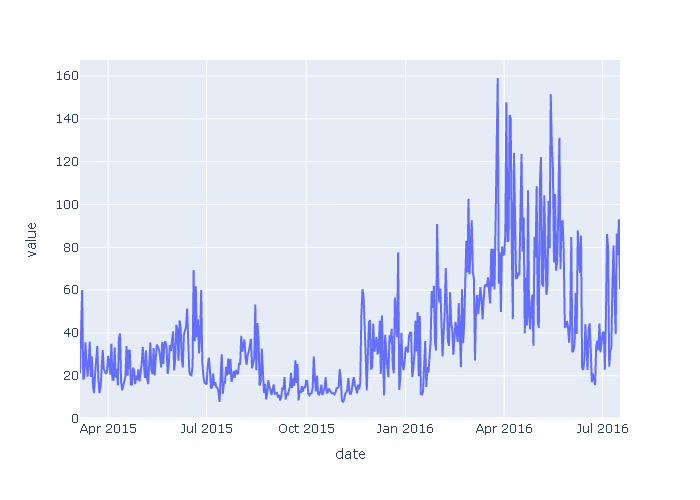
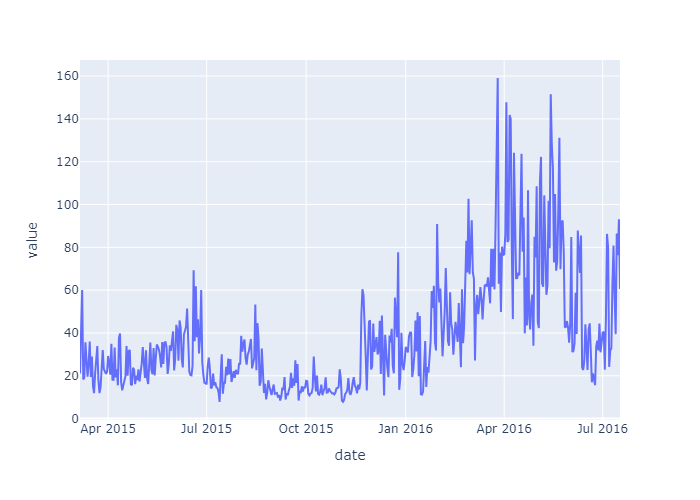
Added requirements.txt

diff --git a/templates/index.html b/templates/index.html
@@ -16,55 +16,57 @@
     <body>             <!--This is for the effect-->
         <!--Had to use z-index: -1 because it interfere with the website-->
        <div id="ambient" style="overflow:hidden; position:absolute; width:100%; height:100vh; z-index: -1;"></div>
-        <div class="container m-lg-5">
-            <h2 class = "text-center">Bitcoin Dashboards 2016</h2>
-            <form method="POST" class = "text-center">
-                <label for="user_input">
-                    Enter number of data you want to see (Max 999):
-                </label>
-                <input type="number" id = "user_input" name = "user_input">
-                <button type="submit">Submit</button>
-            </form>
-            <div class = "d-flex flex-row align-items-center justify-content-center">
-                <div class = "container text-left mg-lg-5">
-                    <h4 class = "text-justify my-lg-5">Explaination of terms</h4>
-                    <ul>
-                        <li><p class = "text-justify">
-                            <strong>Bitcoin Trade Volume: </strong> this is indicate how many Bitcoin are being bought and sold
-                            on specific exchange. For instance, when people deposit and withdraw funds. It's also a good indicator
-                            of the general interest in the crypto market
-                        </p></li>
-                        <li><p class = "text-justify">
-                            <strong>Bitcoin Transaction Volume Ratio: </strong> is a value metric that helps investor understand if the 
-                            Bitcoin's market value is high or low, which help them to buy low and sell high.
-                        </p></li>
-                        <li><p class = "text-justify">
-                            <strong>Bitcoin Miner Revenue: </strong>this is the value that indicate how much does a Bitcoin miner make 
-                            within a day of mining Bitcoin.
-                        </p></li>
-                    </ul>
-                </div>
-                <div class = "container text-center mg-lg-5">
-                    <h4 class = "text-justify my-lg-5">Graph information</h4>
-                    <div class="d-flex flex-column align-items-center justify-content-center">
-                        <img class = "img-fluid" src="/static/images/plot_1.png" alt="">
-                        <figcaption>Fig.1 - Bitcoin Trade Volume vs Transaction Volume Ratio</figcaption>
-                        <img class = "img-fluid" src="/static/images/plot_2.png" alt="">
-                        <figcaption>Fig.2 - Bitcoin Miner Revenue</figcaption>
+        <div class = "container d-flex flex-column justify-content-center align-items-center">
+            <div class="container d-flex flex-column justify-content-center align-items-center vh-100 m-lg-5 ">
+                <h2 class = "text-center">Bitcoin Dashboards 2016</h2>
+                <form method="POST" class = "text-center">
+                    <label for="user_input">
+                        Enter number of data you want to see (Max 999):
+                    </label>
+                    <input type="number" id = "user_input" name = "user_input">
+                    <button type="submit">Submit</button>
+                </form>
+                <div class = "d-flex flex-row align-items-center justify-content-center">
+                    <div class = "container text-left mg-lg-5">
+                        <h4 class = "text-justify my-lg-5">Explaination of terms</h4>
+                        <ul>
+                            <li><p class = "text-justify">
+                                <strong>Bitcoin Trade Volume: </strong> this is indicate how many Bitcoin are being bought and sold
+                                on specific exchange. For instance, when people deposit and withdraw funds. It's also a good indicator
+                                of the general interest in the crypto market
+                            </p></li>
+                            <li><p class = "text-justify">
+                                <strong>Bitcoin Transaction Volume Ratio: </strong> is a value metric that helps investor understand if the 
+                                Bitcoin's market value is high or low, which help them to buy low and sell high.
+                            </p></li>
+                            <li><p class = "text-justify">
+                                <strong>Bitcoin Miner Revenue: </strong>this is the value that indicate how much does a Bitcoin miner make 
+                                within a day of mining Bitcoin.
+                            </p></li>
+                        </ul>
                     </div>
-                </div>
-                <div class = "container text-right mg-lg-5">
-                    <h4 class = "text-justify my-lg-5">Below are the exchange rate of USD and CAD from Bitcoin (from July 02 to July 08 of 2024)</h4>
-                    <h5>USD Currency</h5>
-                    <ul>
-                        {% for item in usd_data %}
-                            <li>{{ item }}</li>
-                        {% endfor %}
-                    </ul><br>
-                    <h5>CAD Currency</h5>
-                        {% for item in cad_data %}
-                            <li>{{ item }}</li>
-                        {% endfor %}
+                    <div class = "container text-center mg-lg-5">
+                        <h4 class = "text-justify my-lg-5">Graph information</h4>
+                        <div class="d-flex flex-column align-items-center justify-content-center">
+                            <img class = "img-fluid" src="/static/images/plot_1.png" alt="">
+                            <figcaption>Fig.1 - Bitcoin Trade Volume vs Transaction Volume Ratio</figcaption>
+                            <img class = "img-fluid" src="/static/images/plot_2.png" alt="">
+                            <figcaption>Fig.2 - Bitcoin Miner Revenue</figcaption>
+                        </div>
+                    </div>
+                    <div class = "container text-right mg-lg-5">
+                        <h4 class = "text-justify my-lg-5">Below are the exchange rate of USD and CAD from Bitcoin (from July 02 to July 08 of 2024)</h4>
+                        <h5>USD Currency</h5>
+                        <ul>
+                            {% for item in usd_data %}
+                                <li>{{ item }}</li>
+                            {% endfor %}
+                        </ul><br>
+                        <h5>CAD Currency</h5>
+                            {% for item in cad_data %}
+                                <li>{{ item }}</li>
+                            {% endfor %}
+                    </div>
                 </div>
             </div>
         </div>
